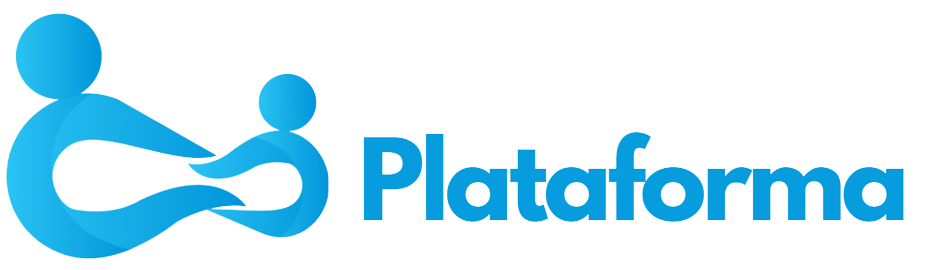
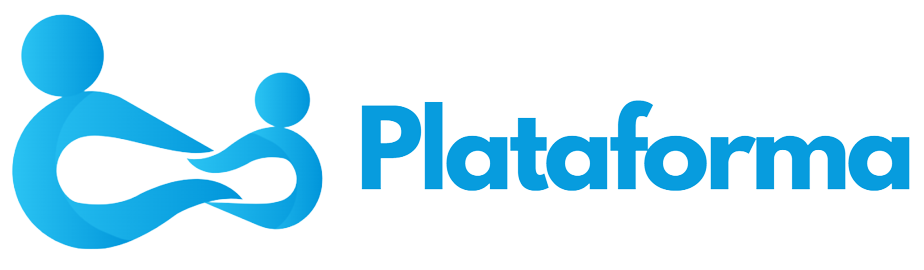
link inherament

diff --git a/ias/mapas.html b/ias/mapas.html
@@ -1,0 +1,115 @@
+<!DOCTYPE html>
+<html lang="en">
+<head>
+    <meta charset="UTF-8">
+    <meta http-equiv="X-UA-Compatible" content="IE=edge">
+    <meta name="viewport" content="width=device-width, initial-scale=1.0">
+    <link rel="icon" href="../img/icone.ico">
+    <link rel="stylesheet" href="../css/style.css">
+    <link rel="stylesheet" href="../css/menu.css">
+    <title>Ajuante | Ajuda Certeira</title>
+</head>
+<body>
+    <header>
+        <nav class="nav-bar">
+            <div class="logo">
+                <a href="../doadores.html"><img class="img-logo" src="../img/ias-section.png" alt="Logo Ajuda Certeira | Usuário"></a>
+            </div>
+            <div class="nav-list">
+                <ul>
+                    <li class="nav-item"><a href="../doadores.html" class="nav-link">Doadores</a></li>
+                    <li class="nav-item"><a href="../ongs.html" class="nav-link">Ongs</a></li>
+                    <li class="nav-item"><a href="../eventos.html" class="nav-link">Eventos</a></li>
+                    <li class="nav-item"><a href="./ajudante.html" class="nav-link" id="atual">Mapa Inteligente</a></li>
+                    <li class="nav-item"><a href="../ias/ajudante.html" class="nav-link">Ajudante Pessoal</a></li>
+                </ul>
+            </div>
+            <div class="login-button">
+                <button class="white-btn"><a href="../home/index.html">Sair</a></button>
+            </div>
+
+            <div class="mobile-menu-icon">
+                <button onclick="menuShow()"><img class="icon" src="../img/menu_white_36dp.svg" alt=""></button>
+            </div>
+        </nav>
+        <div class="mobile-menu">
+            <ul>
+                <li class="nav-item"><a href="doadores.html" class="nav-link">Doadores</a></li>
+                <li class="nav-item"><a href="ongs.html" class="nav-link">Ongs</a></li>
+                <li class="nav-item"><a href="eventos.html" class="nav-link">Eventos</a></li>
+                <li class="nav-item"><a href="./ajudante.html" class="nav-link" id="atual">Mapa Inteligente</a></li>
+                <li class="nav-item"><a href="./ias/ajudante.html" class="nav-link">Ajudante Pessoal</a></li>
+            </ul>
+
+            <div class="login-button">
+                <button><a href="../home/index.html">Sair</a></button>
+            </div>
+        </div>
+    </header>
+    <main>
+        <div class="titulo-ias">
+        <div class="titulo">
+            <div class="linha-titulo">
+                <h1 id="titulo-menor">Ajudante Pessoal</h1>
+                <div class="imgs-titulo">
+                    <img src="../img/openai.png" alt="Logo OpenAI">
+                    <img src="../img/telegram.png" alt="Logo Telegram">
+                    <img src="../img/nodered.png" alt="Logo Node-Red" id="node-red">
+                </div>
+            </div>
+            <p class="subtitulo">Usuarios da nossa aplicação tem acesso à um Ajudante Pessoas que pode responder todo tipo de pergunta!</p>
+            <p class="legenda">(Prototipo, atualmente este Ajudante com API da OpenAI só funciona com um fluxo Node-Red operando. Posteriomente, um deploy na nuvem seria preferencial.)</p>
+        </div>
+    </div>
+    <div class="secao-exemplos">
+        <div class="exemplo">
+            <h2>Dúvidas quanto a doações</h2>
+            <p>Se você não tem certeza que o produto que você tem é abil para doações, pergunta para o ajudante!</p>
+            <img src="../img/p1.png" alt="Exemplo 1 de Perguntas " class="print-pergunta">
+        </div>
+        <div class="exemplo">
+            <h2>Maneiras de Auxiliar ONGs</h2>
+            <p>Esta disposto a ajudar ONGs mas não sabe de quais maneiras? Não tem problemas, pergunte para o seu ajudante!</p>
+            <img src="../img/p2.png" alt="Exemplo 2 de Perguntas " class="print-pergunta">
+        </div>
+        <div class="exemplo">
+            <h2>Perguntas Gerais</h2>
+            <p>O seu Ajudante Pessoal pode responder de tudo! Inclusive, te ajudar na hora daquela receita! Não se sinta limitado quando utilizando ele.</p>
+            <img src="../img/p3.png" alt="Exemplo 1 de Perguntas " class="print-pergunta">
+        </div>
+    </div>
+    </main>
+            <footer>
+            <h1>Equipe da Ajuda Certeira</h1>
+            <p id="subtitulo-membros">Conheça os membros do projeto</p>
+            <br>
+            <div class="membros">
+                <div class="membro">
+                    <img src="../img/membros/gabriel.png" alt="Gabriel Amancio">
+                    <p class="nome-membro">Gabriel Amancio</p>
+                    <p class="rm-membro">RM: 97936</p>
+                </div>
+                <div class="membro">
+                    <img src="../img/membros/henrique.png" alt="Henrique Baptista">
+                    <p class="nome-membro">Henrique Baptista</p>
+                    <p class="rm-membro">RM: 97796</p>
+                </div>
+                <div class="membro">
+                    <img src="../img/membros/pedro.png" alt="Pedro Pacheco">
+                    <p class="nome-membro">Pedro Pacheco</p>
+                    <p class="rm-membro">RM: 98043</p>
+                </div>
+                <div class="membro">
+                    <img src="../img/membros/ricardo.jpg" alt="Ricardo Brito">
+                    <p class="nome-membro">Ricardo Brito</p>
+                    <p class="rm-membro">RM: 98370</p>
+                </div>
+                <div class="membro">
+                    <img src="../img/membros/vitor.jpg" alt="Vitor Jose">
+                    <p class="nome-membro">Vitor Jose</p>
+                    <p class="rm-membro">RM: 55180</p>
+                </div>
+            </div>
+        </footer>
+</body>
+</html>

diff --git a/ongs.html b/ongs.html
@@ -13,7 +13,7 @@
     <header>
         <nav class="nav-bar">
             <div class="logo">
-                <a href="ongs.html"><img class="img-logo" src="./img/organizacao.png" alt="Logo Ajuda Certeira | Organização"></a>
+                <a href="ongs.html"><img class="img-logo" src="./img/plataforma.png" alt="Logo Ajuda Certeira | Organização"></a>
             </div>
             <div class="nav-list">
                 <ul>
@@ -21,7 +21,7 @@
                     <li class="nav-item"><a href="ongs.html" class="nav-link" id="atual">Ongs</a></li>
                     <li class="nav-item"><a href="eventos.html" class="nav-link">Eventos</a></li>
                     <li class="nav-item"><a href="./ias/mapas.html" class="nav-link">Mapa Inteligente</a></li>
-                    <li class="nav-item"><a href="contato.html" class="nav-link">Ajudante Pessoal</a></li>
+                    <li class="nav-item"><a href="./ias/ajudante.html" class="nav-link">Ajudante Pessoal</a></li>
                 </ul>
             </div>
             <div class="login-button">
@@ -35,10 +35,10 @@
         <div class="mobile-menu">
             <ul>
                 <li class="nav-item"><a href="doadores.html" class="nav-link">Doadores</a></li>
-                    <li class="nav-item"><a href="ongs.html" class="nav-link" id="atual-mobile-menu">Ongs</a></li>
-                    <li class="nav-item"><a href="eventos.html" class="nav-link">Eventos</a></li>
-                    <li class="nav-item"><a href="./ias/mapas.html" class="nav-link">Mapa Inteligente</a></li>
-                    <li class="nav-item"><a href="contato.html" class="nav-link">Ajudante Pessoal</a></li>
+                <li class="nav-item"><a href="ongs.html" class="nav-link" id="atual-mobile-menu">Ongs</a></li>
+                <li class="nav-item"><a href="eventos.html" class="nav-link">Eventos</a></li>
+                <li class="nav-item"><a href="./ias/mapas.html" class="nav-link">Mapa Inteligente</a></li>
+                <li class="nav-item"><a href="./ias/ajudante.html" class="nav-link">Ajudante Pessoal</a></li>
             </ul>
 
             <div class="login-button">

diff --git a/ias/ajudante.html b/ias/ajudante.html
@@ -20,7 +20,7 @@
                     <li class="nav-item"><a href="../doadores.html" class="nav-link">Doadores</a></li>
                     <li class="nav-item"><a href="../ongs.html" class="nav-link">Ongs</a></li>
                     <li class="nav-item"><a href="../eventos.html" class="nav-link">Eventos</a></li>
-                    <li class="nav-item"><a href="../culvito.html" class="nav-link">Mapa Inteligente</a></li>
+                    <li class="nav-item"><a href="./mapas.html" class="nav-link">Mapa Inteligente</a></li>
                     <li class="nav-item"><a href="../ias/ajudante.html" class="nav-link" id="atual">Ajudante Pessoal</a></li>
                 </ul>
             </div>
@@ -37,7 +37,7 @@
                 <li class="nav-item"><a href="doadores.html" class="nav-link">Doadores</a></li>
                     <li class="nav-item"><a href="ongs.html" class="nav-link">Ongs</a></li>
                     <li class="nav-item"><a href="eventos.html" class="nav-link">Eventos</a></li>
-                    <li class="nav-item"><a href="culvito.html" class="nav-link">Mapa Inteligente</a></li>
+                    <li class="nav-item"><a href="./mapas.html" class="nav-link">Mapa Inteligente</a></li>
                     <li class="nav-item"><a href="./ias/ajudante.html" class="nav-link" id="atual-mobile-menu   ">Ajudante Pessoal</a></li>
             </ul>
 

diff --git a/eventos.html b/eventos.html
@@ -35,10 +35,10 @@
         <div class="mobile-menu">
             <ul>
                 <li class="nav-item"><a href="doadores.html" class="nav-link">Doadores</a></li>
-                    <li class="nav-item"><a href="ongs.html" class="nav-link">Ongs</a></li>
-                    <li class="nav-item"><a href="eventos.html" class="nav-link" id="atual-mobile-menu">Eventos</a></li>
-                    <li class="nav-item"><a href="./ias/mapas.html" class="nav-link">Mapa Inteligente</a></li>
-                    <li class="nav-item"><a href="./ias/ajudante.html" class="nav-link">Ajudante Pessoal</a></li>
+                <li class="nav-item"><a href="ongs.html" class="nav-link">Ongs</a></li>
+                <li class="nav-item"><a href="eventos.html" class="nav-link" id="atual-mobile-menu">Eventos</a></li>
+                <li class="nav-item"><a href="./ias/mapas.html" class="nav-link">Mapa Inteligente</a></li>
+                <li class="nav-item"><a href="./ias/ajudante.html" class="nav-link">Ajudante Pessoal</a></li>
             </ul>
 
             <div class="login-button">

diff --git a/doadores.html b/doadores.html
@@ -13,7 +13,7 @@
     <header>
         <nav class="nav-bar">
             <div class="logo">
-                <a href="doadores.html"><img class="img-logo" src="./img/usuario.png" alt="Logo Ajuda Certeira | Usuário"></a>
+                <a href="doadores.html"><img class="img-logo" src="./img/plataforma.png" alt="Logo Ajuda Certeira | Usuário"></a>
             </div>
             <div class="nav-list">
                 <ul>
